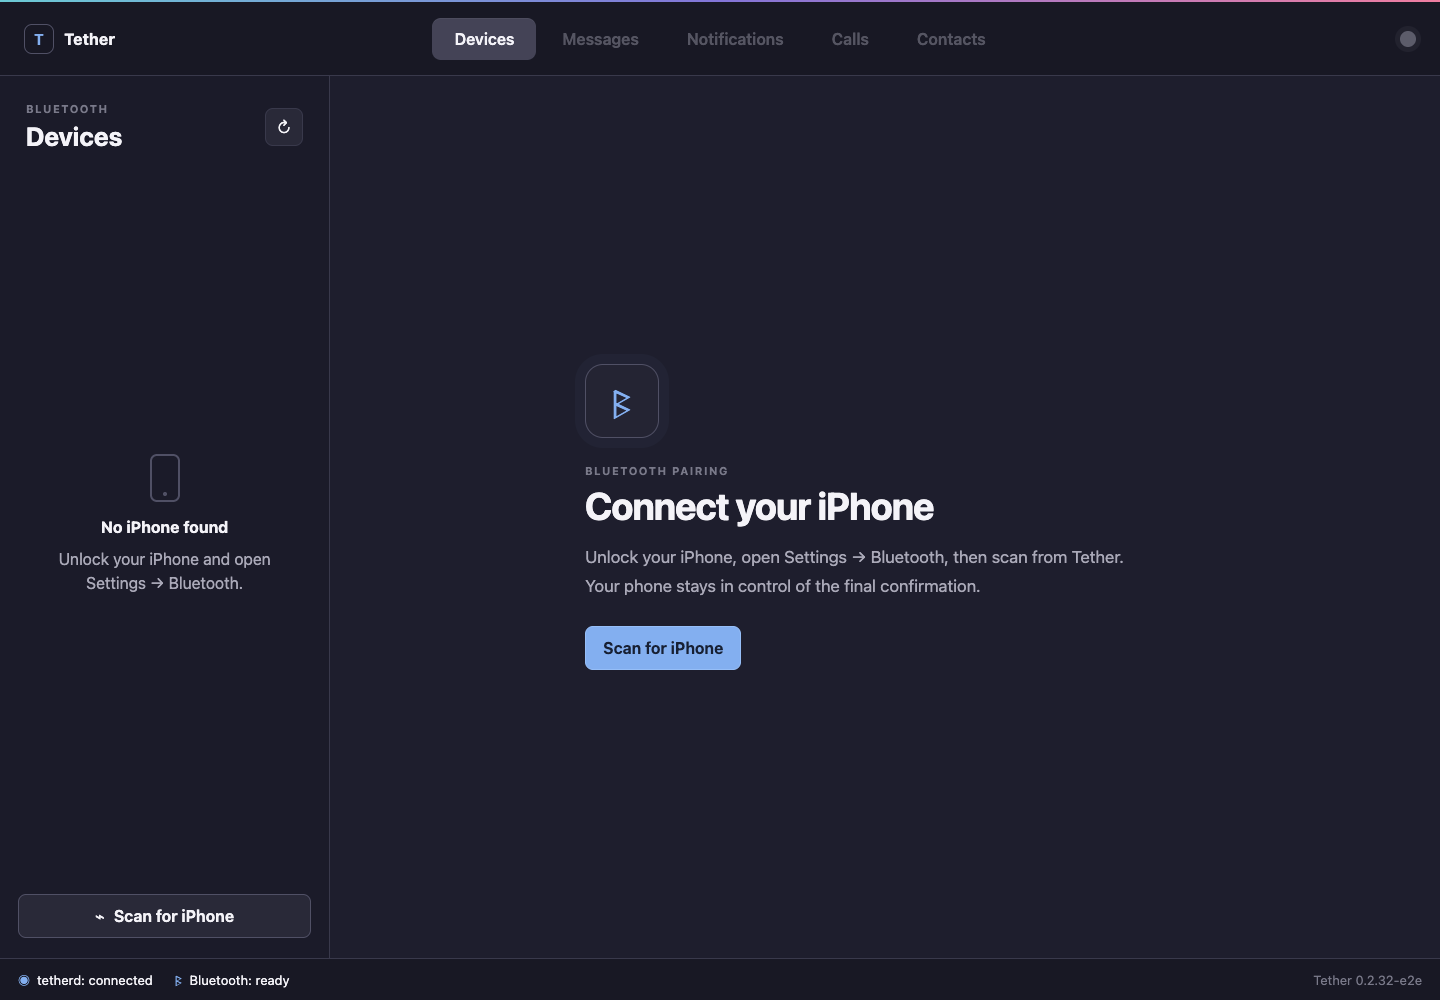
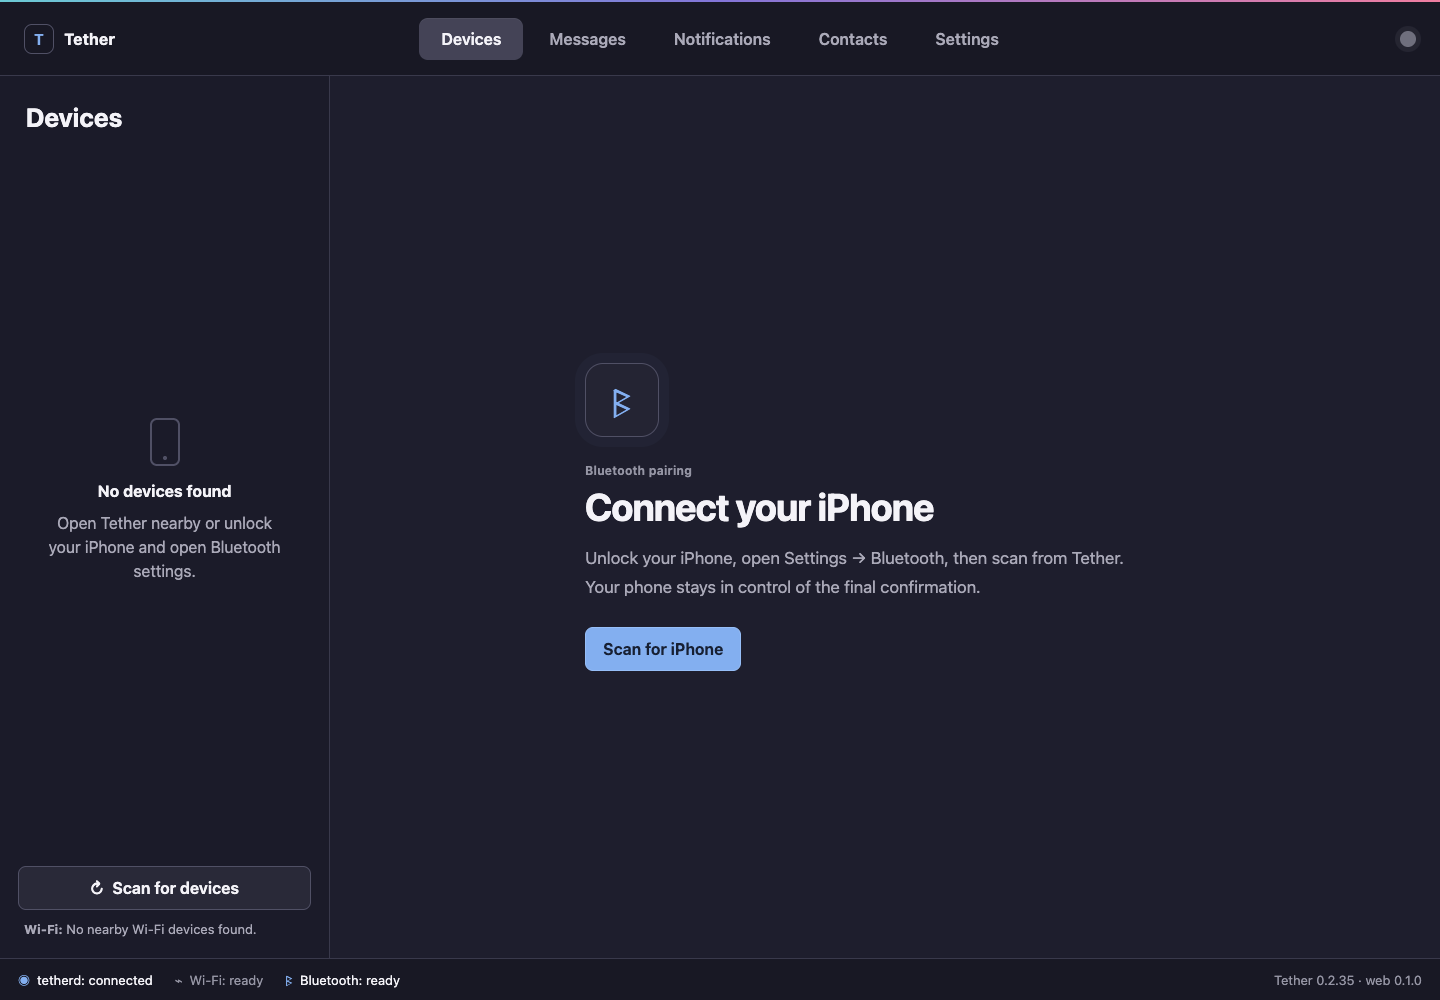
Refresh README screenshots with the current UI
Live captures are redacted in the browser before capture; the unpaired and pairing-code states come from the fake e2e daemon.

diff --git a/README.md b/README.md
@@ -4,7 +4,7 @@ A browser client for [Tether](https://github.com/zackb/tether), the Linux compan
 
 `tether-web` connects to a local `tetherd` Unix socket. The Go service embeds the React application, forwards daemon commands, and publishes daemon events to browsers over server-sent events. Bluetooth behavior remains in `tetherd`.
 
-![A paired iPhone with live Bluetooth, message, contact, and notification status](docs/img/connected.png)
+![The Devices view with a paired iPhone, its Classic Bluetooth and Low Energy status, and connection controls](docs/img/connected.png)
 
 ## Current scope
 
@@ -20,7 +20,11 @@ The web client provides the Devices view's guided Bluetooth flow:
 - discover, approve, connect, and forget Tether peers over Wi-Fi; and
 - send files to a connected trusted peer from a file picker or drop zone.
 
+![The pairing security check asking whether the iPhone shows the same six-digit code](docs/img/numeric-confirmation.png)
+
 The web client also offers Messages (conversation search, drafts, sending, and read state), Notifications (ANCS list and dismissal), Calls (live HFP call control, dialing, and daemon-host audio routing), and Contacts (search, phone/email details, and message handoff). Confirmed Messages sending requires the upstream optional message-send operation ID; uncorrelated results never clear a browser draft. Calls never stream audio to the browser. Settings manages daemon-global ANCS mirroring/content, call control, and storage retention, while clearly identifying headless desktop-only controls. The app also keeps an unread Messages badge current while another view is open, supports browser-safe navigation/compose/search shortcuts, and offers separate opt-in, content-free browser alerts for live iPhone notifications while the tab is hidden. Browser alert consent is saved locally; it is not the host desktop-popup setting. This is not yet a verified physical-phone replacement for GTK: PBAP, ANCS, and HFP still need hardware validation, and Send Clipboard remains deferred. See [docs/UI_PARITY.md](docs/UI_PARITY.md).
+
+![The Settings view with browser alerts, Bluetooth, and host notification mirroring controls](docs/img/settings.png)
 
 ## Requirements
 
